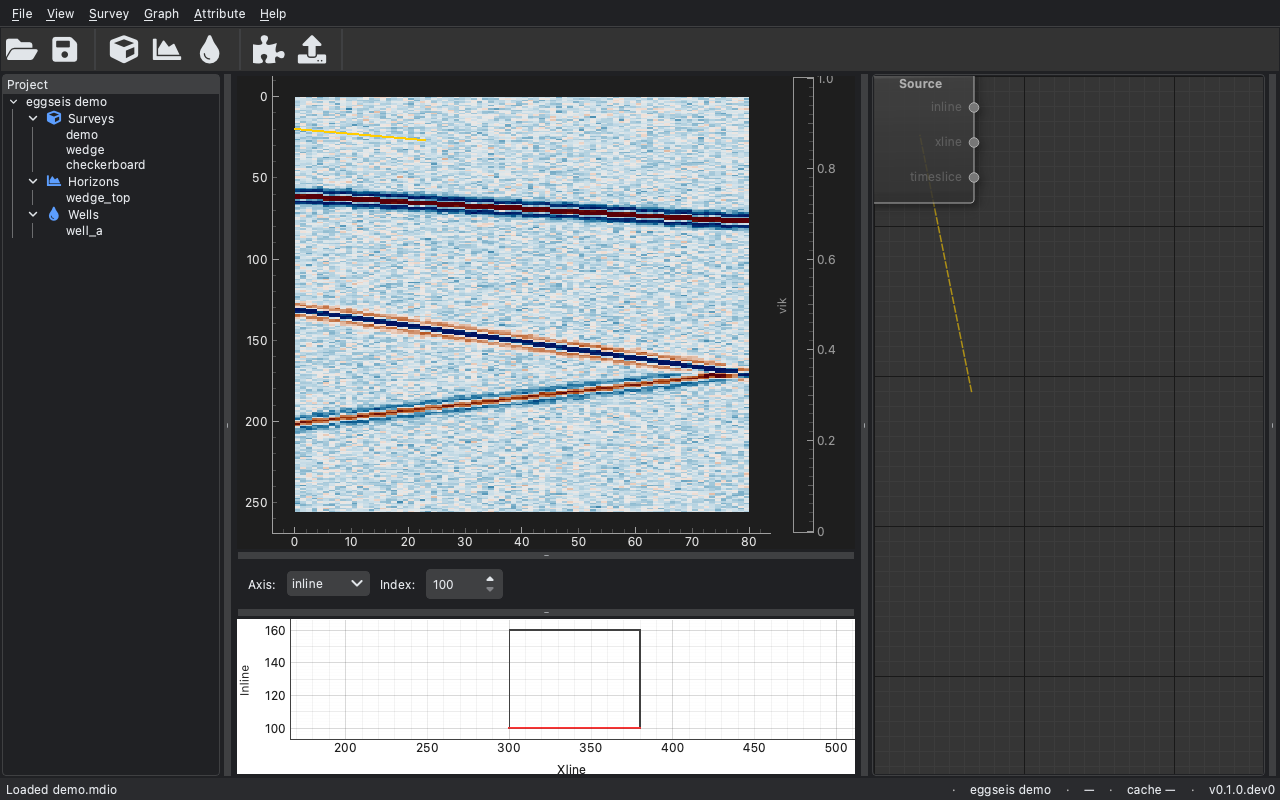
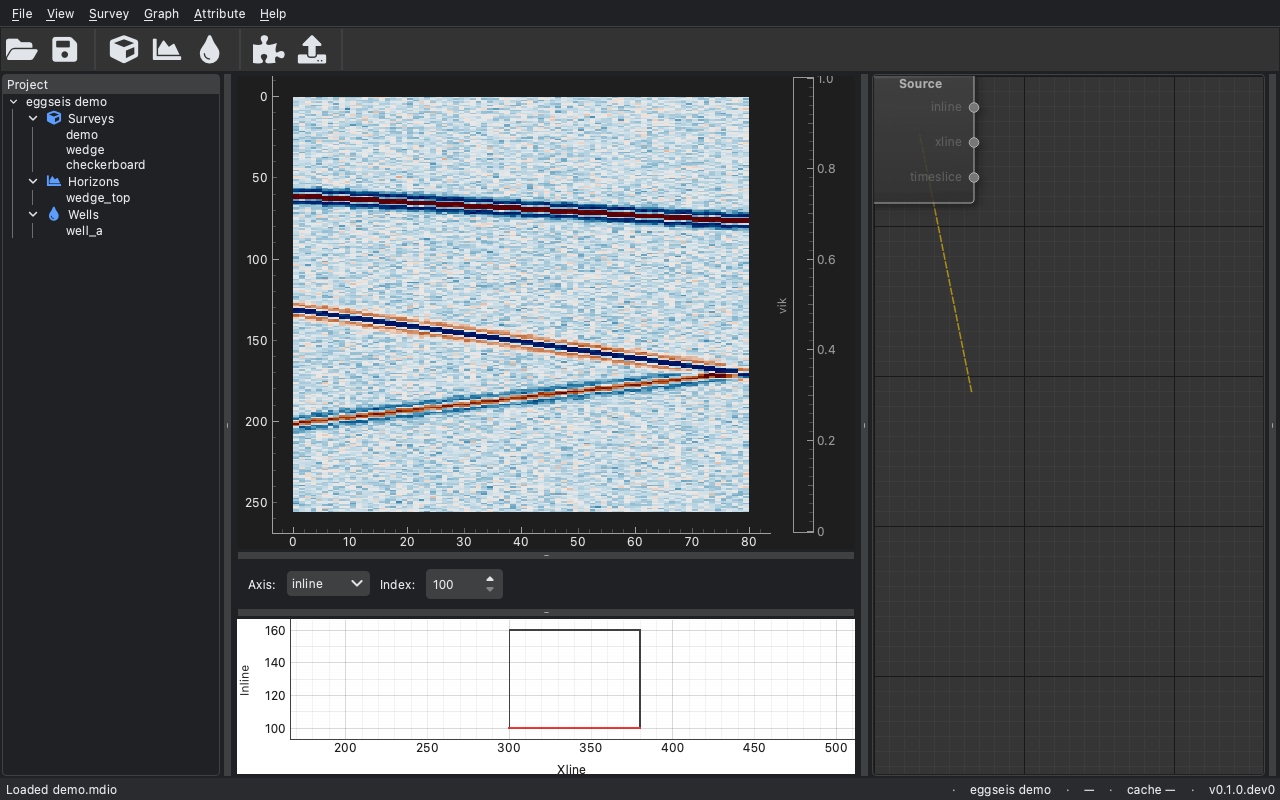
fix: clear section overlays on volume swap + Axis-typed slice signal + cursor segment wiring (closes #17, #18)

diff --git a/src/eggseis/viewers/section.py b/src/eggseis/viewers/section.py
@@ -25,7 +25,7 @@ _PERCENTILE_SUBSAMPLE = 8  # stride into raveled slice when estimating 1/99 perc
 
 
 class SectionViewer(QWidget):
-    cursorMoved = Signal(str)
+    cursorCoords = Signal(int, int, float)  # (inline, xline, t_ms)
 
     def __init__(self) -> None:
         super().__init__()
@@ -144,6 +144,11 @@ class SectionViewer(QWidget):
         return self._volume.geometry if self._volume else None
 
     def set_volume(self, volume: SeismicVolume) -> None:
+        # Clear overlay state from previous volume (or same volume re-bound).
+        for name in list(self._well_overlays.keys()):
+            self.remove_well_overlay(name)
+        for name in list(self._horizon_overlays.keys()):
+            self.remove_horizon_overlay(name)
         self.set_colormap(DEFAULT_AMPLITUDE)
         self._volume = volume
         self._axis = Axis.INLINE
@@ -329,22 +334,18 @@ class SectionViewer(QWidget):
         self._last_emit_key = key
 
         g = self._volume.geometry
-        amp = float(arr[y, x])
 
         if self._axis is Axis.INLINE:
-            text = (
-                f"Inline {self._index}  Xline {g.xline_at(x)}  "
-                f"Time {g.time_at(y):.1f} ms  Amp {amp:.4g}"
-            )
+            il = self._index
+            xl = g.xline_at(x)
+            t_ms = g.time_at(y)
         elif self._axis is Axis.XLINE:
-            text = (
-                f"Xline {self._index}  Inline {g.inline_at(x)}  "
-                f"Time {g.time_at(y):.1f} ms  Amp {amp:.4g}"
-            )
+            il = g.inline_at(x)
+            xl = self._index
+            t_ms = g.time_at(y)
         else:
-            text = (
-                f"Time {g.time_at(self._index):.1f} ms  "
-                f"Inline {g.inline_at(y)}  Xline {g.xline_at(x)}  Amp {amp:.4g}"
-            )
+            il = g.inline_at(y)
+            xl = g.xline_at(x)
+            t_ms = g.time_at(self._index)
 
-        self.cursorMoved.emit(text)
+        self.cursorCoords.emit(int(il), int(xl), float(t_ms))

diff --git a/src/eggseis/viewers/map_view.py b/src/eggseis/viewers/map_view.py
@@ -21,7 +21,7 @@ class MapViewWidget(QWidget):
     Click-to-navigate emits sliceRequested(axis, index).
     """
 
-    sliceRequested = Signal(str, int)  # ("inline" | "xline", index)
+    sliceRequested = Signal(Axis, int)  # (Axis.INLINE | Axis.XLINE, index)
 
     def __init__(self) -> None:
         super().__init__()
@@ -152,13 +152,13 @@ class MapViewWidget(QWidget):
                 nearest_name = name
         if nearest_name is not None and nearest_dist < _WELL_SNAP_RADIUS:
             _wxl, wil = self._well_positions[nearest_name]
-            self.sliceRequested.emit("inline", round(wil))
+            self.sliceRequested.emit(Axis.INLINE, round(wil))
             return
         # Fallback: existing behavior — snap to integer grid, drive section
         # axis from the current map axis.
         x_xline = round(click_xline)
         y_inline = round(click_inline)
         if self._axis is Axis.INLINE:
-            self.sliceRequested.emit("inline", int(y_inline))
+            self.sliceRequested.emit(Axis.INLINE, int(y_inline))
         elif self._axis is Axis.XLINE:
-            self.sliceRequested.emit("xline", int(x_xline))
+            self.sliceRequested.emit(Axis.XLINE, int(x_xline))

diff --git a/src/eggseis/widgets/slice_nav.py b/src/eggseis/widgets/slice_nav.py
@@ -5,7 +5,7 @@ from __future__ import annotations
 from PySide6.QtCore import Signal
 from PySide6.QtWidgets import QComboBox, QHBoxLayout, QLabel, QSpinBox, QWidget
 
-from eggseis.axes import AXES
+from eggseis.axes import AXES, Axis
 from eggseis.data import SurveyGeometry
 
 
@@ -64,13 +64,14 @@ class SliceNavigator(QWidget):
             return  # shortcuts may fire before any project is loaded
         self.axis.setCurrentText(axis)
 
-    def set_axis_and_index(self, axis: str, index: int) -> None:
+    def set_axis_and_index(self, axis: Axis | str, index: int) -> None:
         """Switch axis and jump to the given index.
 
         The combo's currentTextChanged handler reseeds the spinbox to the
         axis lower bound; we then write the requested index, which the
         spinbox clamps to its valid range and emits sliceChanged.
         """
+        axis = Axis(axis)
         if axis not in AXES:
             raise ValueError(f"Unknown axis {axis!r}; expected one of {AXES}")
         if self._geom is None:

diff --git a/tests/test_section_overlay_clear.py b/tests/test_section_overlay_clear.py
@@ -1,0 +1,33 @@
+"""SectionViewer.set_volume should clear well + horizon overlay state."""
+
+from __future__ import annotations
+
+import numpy as np
+import pytest
+
+pytest.importorskip("PySide6")
+
+
+def test_set_volume_clears_well_overlays(qtbot, fake_backend):
+    from eggseis.data import SeismicVolume
+    from eggseis.data.well import Well
+    from eggseis.viewers.section import SectionViewer
+
+    sv = SectionViewer()
+    qtbot.addWidget(sv)
+    vol_a = SeismicVolume(fake_backend)
+    sv.set_volume(vol_a)
+
+    well = Well(
+        name="WX",
+        deviation=np.array([[0.0, 0.0, 0.0], [100.0, 0.0, 0.0]], dtype=np.float32),
+        logs={"GR": np.array([1.0, 2.0], dtype=np.float32)},
+        markers=[],
+        surface_xy=(310.0, 110.0),
+    )
+    sv.add_well_overlay(well)
+    assert "WX" in sv._well_overlays
+
+    sv.set_volume(vol_a)  # rebind same volume
+    assert sv._well_overlays == {}
+    assert sv._horizon_overlays == {}

diff --git a/src/eggseis/app.py b/src/eggseis/app.py
@@ -318,7 +318,7 @@ class MainWindow(QMainWindow):
         self.tree.wellActivated.connect(self._on_well_activated)
         self.tree.loadRequested.connect(self._on_tree_load_requested)
         self.slice_nav.sliceChanged.connect(self._on_slice_changed)
-        self.section_viewer.cursorMoved.connect(self.statusBar().showMessage)
+        self.section_viewer.cursorCoords.connect(self._status.set_cursor)
         self.param_dock.paramsChanged.connect(self._on_params_changed)
         self.map_view.sliceRequested.connect(
             lambda axis, idx: self.slice_nav.set_axis_and_index(axis, idx)
